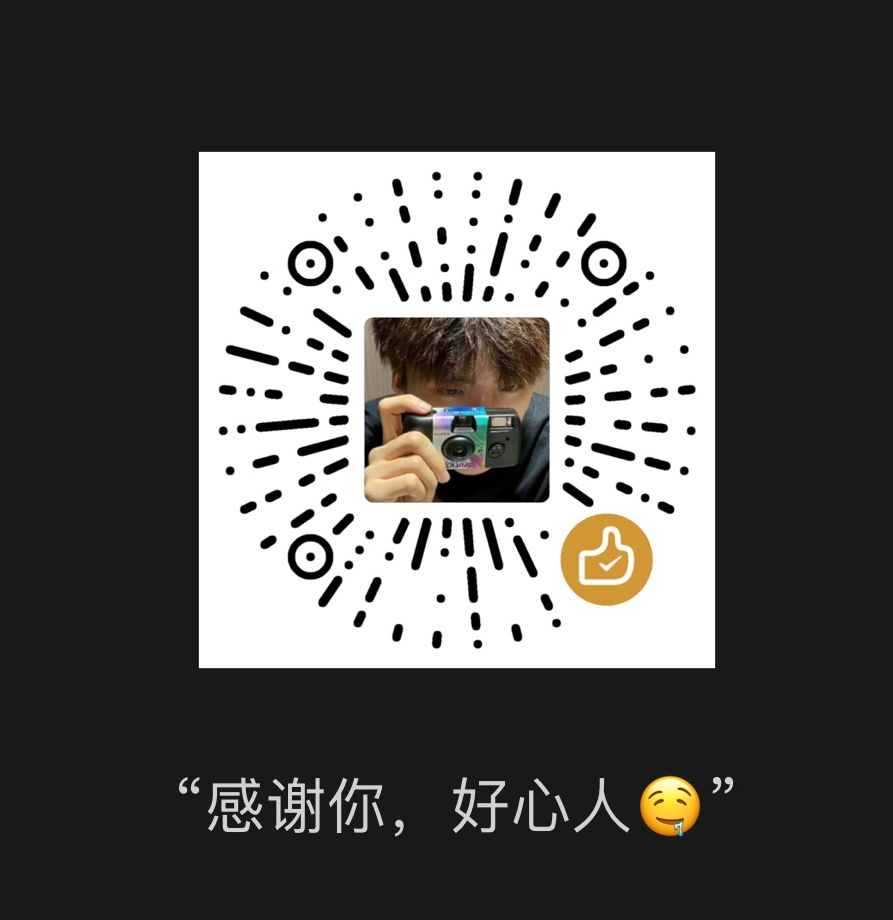
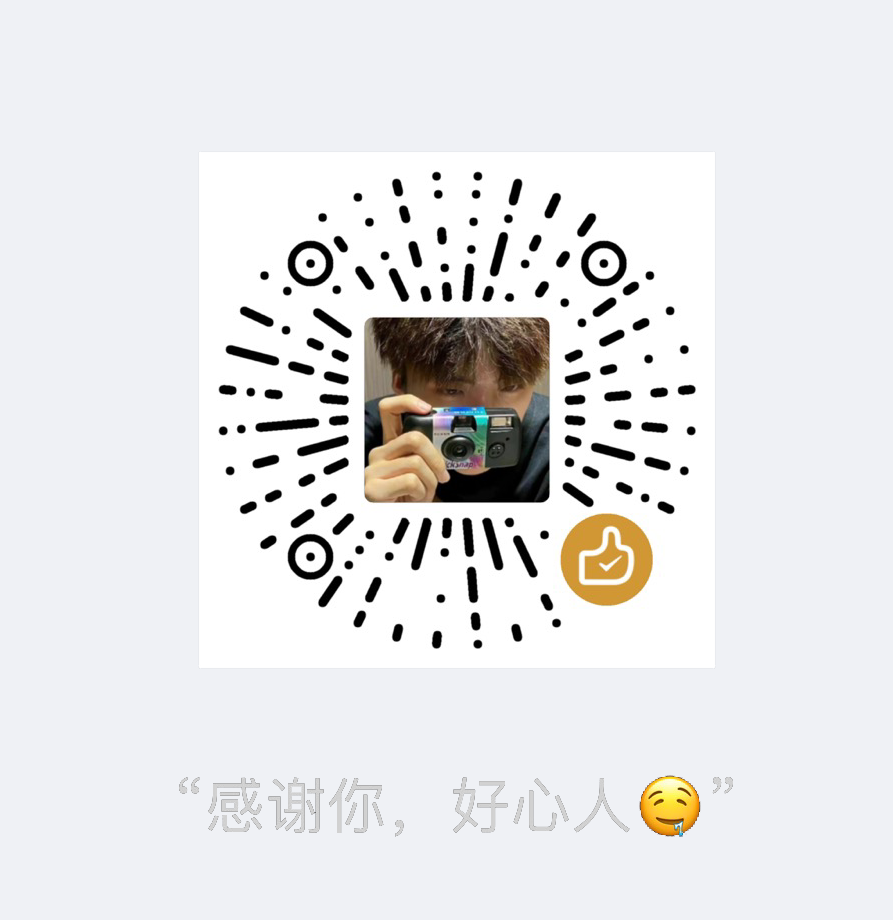
update

diff --git a/README.md b/README.md
@@ -39,3 +39,10 @@
   
 ## 赞助
 ![image](./README_IMG/img3.png)
+
+
+## 历史记录
+v1.0.1
+* 优化SSID获取方法
+* 优化页面配色、函数方法
+* 代码压缩
